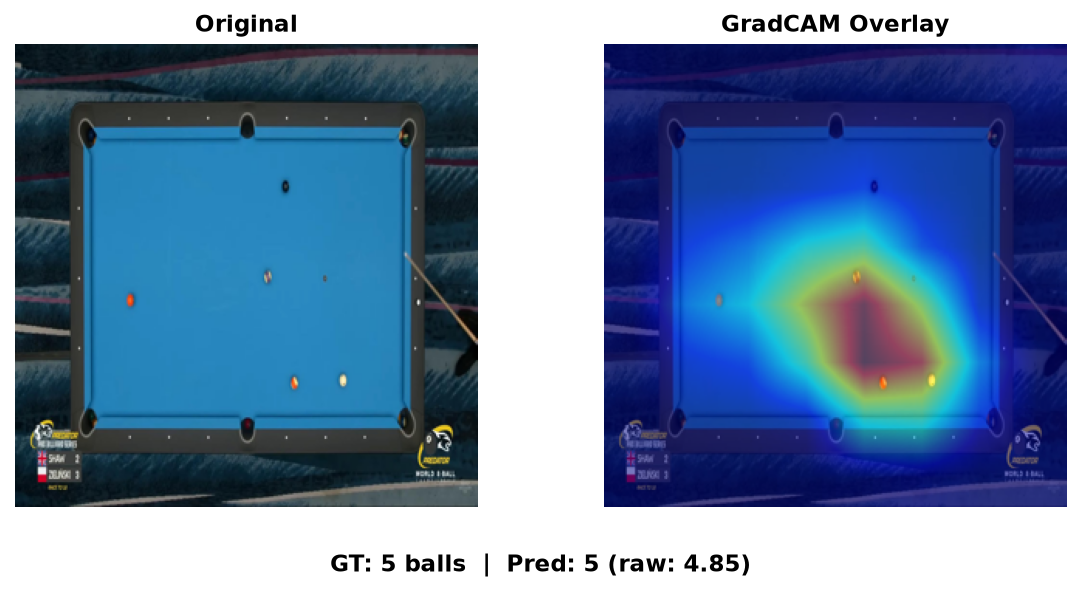
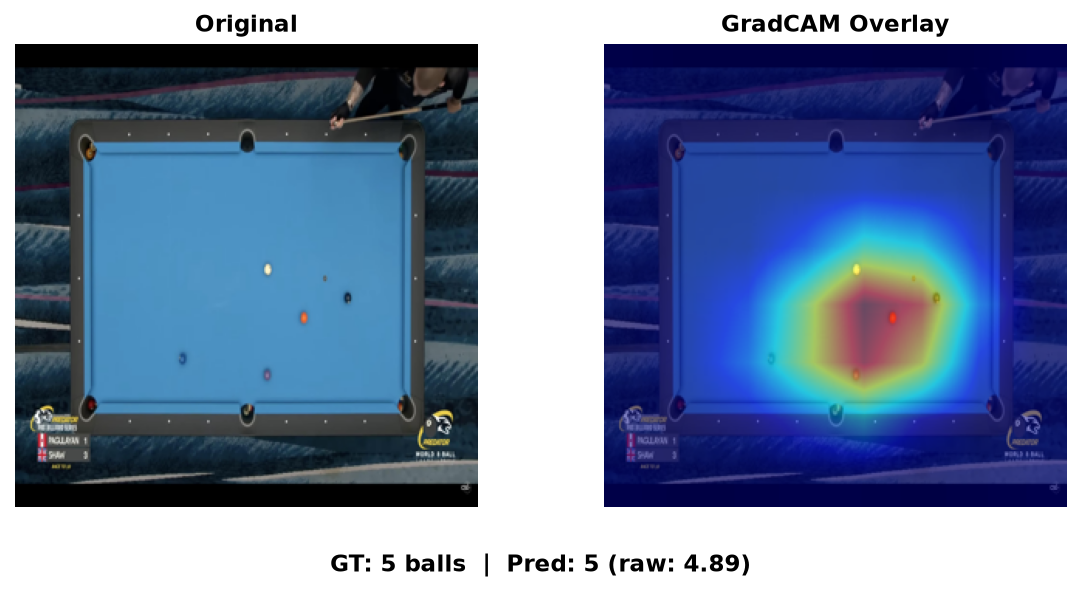
done

diff --git a/Task2/report/main.tex b/Task2/report/main.tex
@@ -107,23 +107,20 @@ Table~\ref{tab:task2_full} shows evaluation on the full original dataset, which 
 \textbf{Backbone} & \textbf{MAE}$\downarrow$ & \textbf{MSE}$\downarrow$ & \textbf{RMSE}$\downarrow$ & \textbf{Acc}$\uparrow$ \\
 \midrule
 ResNet-18             & 0.522 & 0.616 & 0.785 & 63.2\% \\
-EfficientNet-B0       & 0.464 & 0.423 & 0.651 & \textbf{66.4\%} \\
-\textbf{VGG-16}       & \textbf{0.444} & \textbf{0.348} & \textbf{0.590} & 65.6\% \\
-Inception v3          & 1.077 & 2.558 & 1.599 & 30.4\% \\
+EfficientNet-B0       & 0.464 & 0.423 & 0.651 & 66.4\% \\
+VGG-16                & 0.444 & 0.348 & 0.590 & 65.6\% \\
+\textbf{Inception v3} & \textbf{0.297} & \textbf{0.195} & \textbf{0.442} & \textbf{82.6\%} \\
 MobileNet v3          & 0.630 & 0.730 & 0.855 & 49.8\% \\
 \bottomrule
 \end{tabular}
 \end{table}
 
-Here VGG-16 dominates on error metrics and EfficientNet-B0 achieves the highest accuracy.
-Notably, Inception~v3 drops to last place , strong test performance paired with weak in-distribution results suggests training instability rather than overfitting, possibly exacerbated by the 4$\times$ oversampling strategy.
+Inception~v3 again leads across all metrics on the full original dataset, achieving 82.6\% accuracy and the lowest MAE (0.297), confirming that its strong test-set performance generalises well to the broader in-domain distribution.
+VGG-16 and EfficientNet-B0 follow closely, while MobileNet~v3 remains the weakest.
 Training convergence curves are provided in Appendix~\ref{app:training_curves}.
 
 \subsection{Grad-CAM Analysis}
-We apply Grad-CAM~\cite{selvaraju2017gradcam} to the final convolutional layer of VGG-16 and Inception~v3 to interpret model focus during counting.
-Representative heatmaps are provided in Appendix~\ref{app:gradcam}.
-Both models attend primarily to ball regions, though VGG-16 produces broader activations while Inception~v3 yields more localised, ball-specific responses.
-On failure cases, attention shifts to table edges or occluded areas.
+To understand where the model focuses during counting, we apply Grad-CAM~\cite{selvaraju2017gradcam} to the final convolutional layer of Inception~v3. Visualizations in Appendix~\ref{app:gradcam} show broad activations over the table surface, consistent with global spatial aggregation. In failure cases, activation spreads toward table edges, suggesting confusion with non-ball features
 
 
 % ═══════════════════════════════════════════════════════════════════════════════
@@ -289,36 +286,8 @@ Figures~\ref{fig:curve_loss}--\ref{fig:curve_acc} show the validation metrics ac
 \section{GradCAM Visualizations}
 \label{app:gradcam}
 
-Figures~\ref{fig:gradcam_vgg} and~\ref{fig:gradcam_inception} show Grad-CAM heatmaps for VGG-16 and Inception~v3 on three test set images each.
+Figure~\ref{fig:gradcam_inception} shows Grad-CAM heatmaps for Inception~v3 on three test set images (two correct predictions and one incorrect).
 Each pair displays the original image (left) and the GradCAM overlay (right); ground truth and predicted ball counts are annotated in the image title.
-
-\begin{figure}[H]
-  \centering
-  \begin{subfigure}[b]{\columnwidth}
-    \centering
-    \includegraphics[width=0.95\columnwidth]{gradcam/vgg16_00.png}
-    \caption{Sample 1.}
-  \end{subfigure}
-
-  \vspace{0.3em}
-
-  \begin{subfigure}[b]{\columnwidth}
-    \centering
-    \includegraphics[width=0.95\columnwidth]{gradcam/vgg16_01.png}
-    \caption{Sample 2.}
-  \end{subfigure}
-
-  \vspace{0.3em}
-
-  \begin{subfigure}[b]{\columnwidth}
-    \centering
-    \includegraphics[width=0.95\columnwidth]{gradcam/vgg16_02.png}
-    \caption{Sample 3.}
-  \end{subfigure}
-
-  \caption{VGG-16 Grad-CAM visualizations on original test set images.}
-  \label{fig:gradcam_vgg}
-\end{figure}
 
 \begin{figure}[H]
   \centering

diff --git a/Task2/inference.py b/Task2/inference.py
@@ -36,9 +36,9 @@ from torchvision import transforms, models
 
 # ─── Config ───────────────────────────────────────────────────────────────────
 
-BACKBONE   = "vgg16"
-MODEL_PATH = "models/vgg16.pth"
-IMG_SIZE   = 224
+BACKBONE   = "inception_v3"
+MODEL_PATH = "models/inception_v3.pth"
+IMG_SIZE   = 299
 BATCH_SIZE = 16
 
 DEVICE = torch.device("cuda" if torch.cuda.is_available() else "cpu")
@@ -46,9 +46,10 @@ DEVICE = torch.device("cuda" if torch.cuda.is_available() else "cpu")
 # ─── Model ────────────────────────────────────────────────────────────────────
 
 def build_model():
-    model = models.vgg16(weights=None)
-    in_features = model.classifier[6].in_features
-    model.classifier[6] = nn.Sequential(nn.Dropout(0.3), nn.Linear(in_features, 1))
+    model = models.inception_v3(weights=None, transform_input=True)
+    model.AuxLogits.fc = nn.Linear(model.AuxLogits.fc.in_features, 1)
+    in_features = model.fc.in_features
+    model.fc = nn.Sequential(nn.Dropout(0.3), nn.Linear(in_features, 1))
     return model
 
 

diff --git a/Task2/gradcam.py b/Task2/gradcam.py
@@ -33,7 +33,7 @@ N_WRONG      = 1
 
 DEVICE = torch.device("cuda" if torch.cuda.is_available() else "cpu")
 
-BACKBONES_TO_VIS = ["vgg16", "inception_v3"]
+BACKBONES_TO_VIS = ["inception_v3"]
 
 random.seed(SEED)
 np.random.seed(SEED)